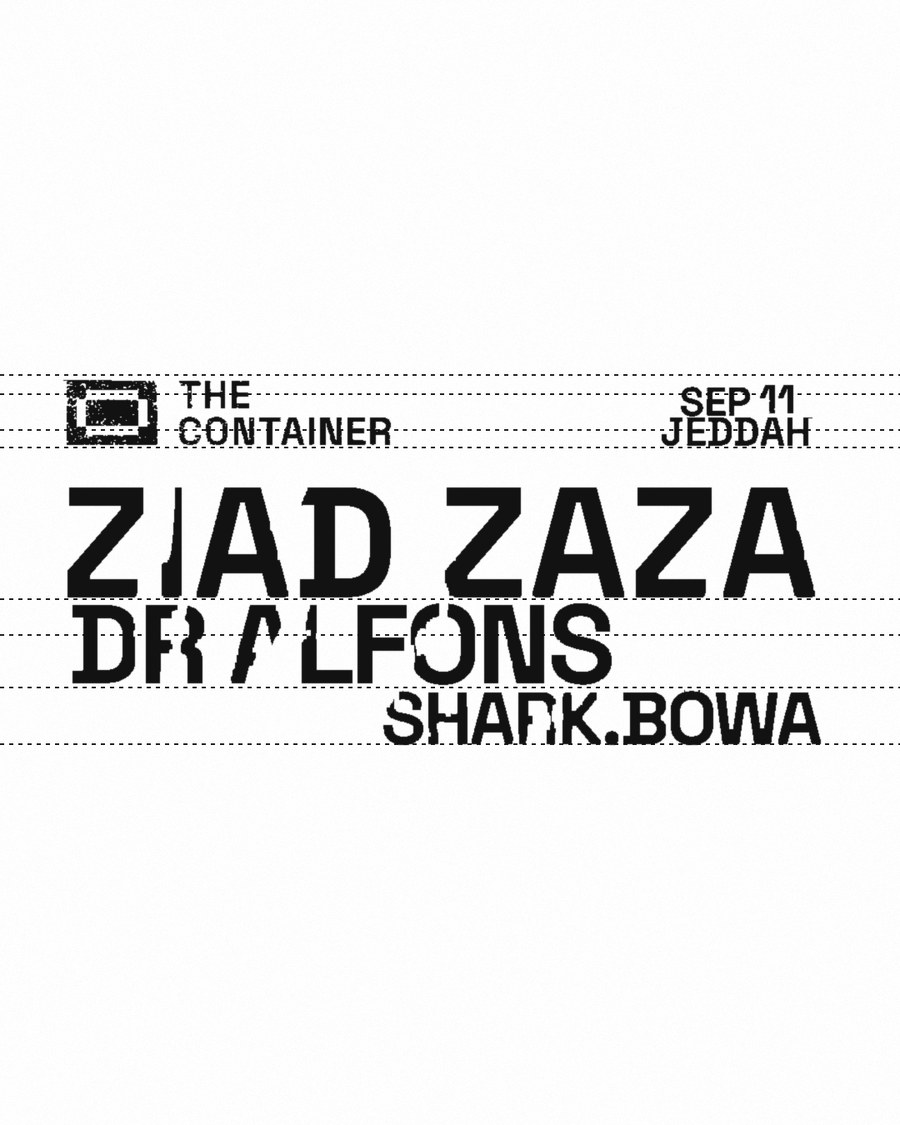
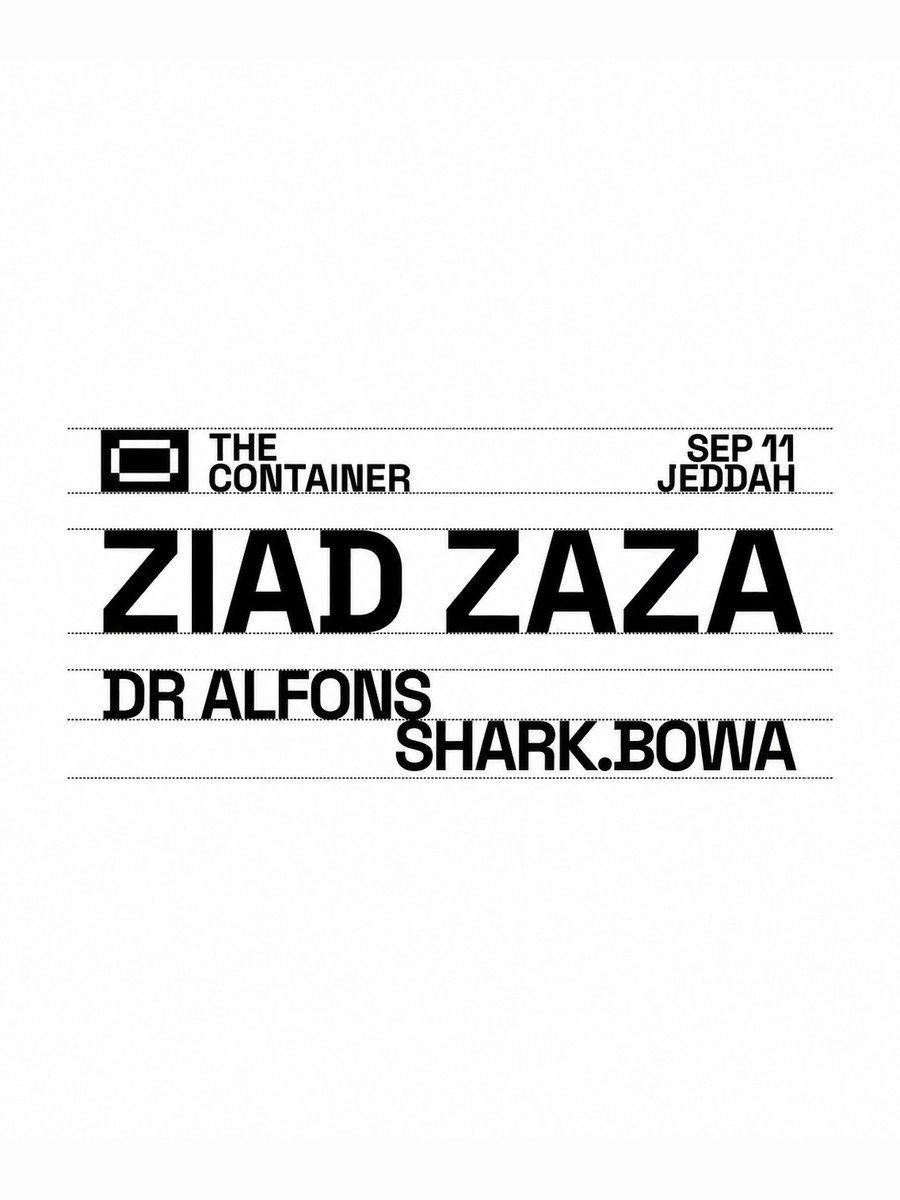
app

Changed region(s): [[0.0622, 0.3111, 0.9333, 0.6844]]

diff --git a/index.html b/index.html
@@ -108,7 +108,7 @@
         <p class="lede day-only">By day, The Container hosts workshops, exhibitions, talks, seminars and creative gatherings. A flexible space for learning, collaboration and new ideas.</p>
         <p class="lede night-only">At night, The Container comes alive with music, fashion shows, stand-up comedy, art exhibitions and live performances, powered by Funktion-One sound and immersive production.</p>
         <div class="hero__cta">
-          <a class="btn btn--solid" href="/events/">Get tickets - Sep 03 &amp; 04</a>
+          <a class="btn btn--solid" href="/events/">Get tickets - Sep 11 &amp; 18</a>
           <a class="btn" href="/about/">The venue</a>
         </div>
       </div>
@@ -174,35 +174,7 @@
       <div class="event-grid">
 <article class="event reveal" data-kind="night" data-ticket-url="">
   <div class="event__art">
-    <img src="/assets/img/events/opening-night-sep-03.jpg" alt="Opening night flyer - Maz, Laolu, Dish Dash and Eyad at The Container, Jeddah, September 03" width="900" height="1187" loading="lazy">
-  </div>
-  <div class="event__body">
-    <p class="event__meta">Thu Sep 03 · Doors 9 PM · Last entry 12:30 AM · 18+</p>
-    <h3>Maz · Laolu · Dish Dash · Eyad</h3>
-    <p class="event__desc">The Container presents Maz, Laolu, Dish Dash and Eyad for a night of captivating Afro-house beats. Experience our opening party on Thursday, September 3, at The Container in North Obhur, Jeddah. Limited tickets available.</p>
-    <div class="event__foot event__foot--split" data-ticket-slot>
-      <a class="btn btn--solid" href="https://jeddah.platinumlist.net/event-tickets/107693/the-container" target="_blank" rel="noopener noreferrer">Platinumlist</a>
-      <a class="btn" href="https://nofomo.com/events/the-container-3-sep" target="_blank" rel="noopener noreferrer">NoFomo</a>
-    </div>
-  </div>
-</article>
-<article class="event reveal" data-delay="1" data-kind="night" data-ticket-url="">
-  <div class="event__art">
-    <img src="/assets/img/events/sosa-sep-04.jpg" alt="Flyer - Sosa, Fleur Shore, Vinyl Mode, Blacky and Future Loop at The Container, Jeddah, September 04" width="900" height="1187" loading="lazy">
-  </div>
-  <div class="event__body">
-    <p class="event__meta">Fri Sep 04 · Doors 9 PM · Last entry 12:30 AM · 18+</p>
-    <h3>Sosa · Fleur Shore · Vinyl Mode · Blacky · Future Loop</h3>
-    <p class="event__desc">The Container presents SOSA, Fleur Shore, Vinyl Mode, Blacky and Future Loop for a night of groovy house beats. Experience our opening weekend on Friday, September 4, at The Container in North Obhur, Jeddah. Limited tickets available.</p>
-    <div class="event__foot event__foot--split" data-ticket-slot>
-      <a class="btn btn--solid" href="https://jeddah.platinumlist.net/event-tickets/107696/the-container-presents-sosa-fleur-shore-vinyl-mode-blacky-future-loop" target="_blank" rel="noopener noreferrer">Platinumlist</a>
-      <a class="btn" href="https://nofomo.com/events/the-container-4-sep" target="_blank" rel="noopener noreferrer">NoFomo</a>
-    </div>
-  </div>
-</article>
-<article class="event reveal" data-delay="2" data-kind="night" data-ticket-url="">
-  <div class="event__art">
-    <img src="/assets/img/events/ziad-zaza-sep-11.jpg" alt="Flyer - Ziad Zaza, Dr Alfons, Shark and Bowa at The Container, Jeddah, September 11" width="900" height="1125" loading="lazy">
+    <img src="/assets/img/events/ziad-zaza-sep-11.jpg" alt="Flyer - Ziad Zaza, Dr Alfons, Shark and Bowa at The Container, Jeddah, September 11" width="900" height="1200" loading="lazy">
   </div>
   <div class="event__body">
     <p class="event__meta">Fri Sep 11 · Doors 9 PM · Last entry 12:30 AM · 18+</p>
@@ -211,6 +183,46 @@
     <div class="event__foot event__foot--split" data-ticket-slot>
       <a class="btn btn--solid" href="https://jeddah.platinumlist.net/event-tickets/107974/the-container" target="_blank" rel="noopener noreferrer">Platinumlist</a>
       <a class="btn" href="https://nofomo.com/events/the-container-11-sep" target="_blank" rel="noopener noreferrer">NoFomo</a>
+    </div>
+  </div>
+</article>
+<article class="event reveal" data-delay="1" data-kind="night" data-ticket-url="">
+  <div class="event__art">
+    <img src="/assets/img/events/apollonia-sep-18.jpg" alt="Flyer - Apollonia, Vinyl Mode B2B Abbas and Varoo at The Container, Jeddah, September 18" width="900" height="1200" loading="lazy">
+  </div>
+  <div class="event__body">
+    <p class="event__meta">Fri Sep 18 · Doors 9 PM · Last entry 12 AM · 18+</p>
+    <h3>Apollonia · Vinyl Mode B2B Abbas · Varoo</h3>
+    <p class="event__desc">Formed by Dan Ghenacia, Dyed Soundorom and Shonky, the Parisian trio have built a global reputation for their unmistakable chemistry behind the decks, seamlessly moving through deep house, minimal and timeless underground grooves. Joining them are Vinyl Mode B2B Abbas &amp; Varoo, setting the tone for a night dedicated to pure underground energy.</p>
+    <div class="event__foot" data-ticket-slot>
+      <a class="btn btn--solid" href="https://nofomo.com/events/the-container-18-sep" target="_blank" rel="noopener noreferrer">NoFomo</a>
+    </div>
+  </div>
+</article>
+<article class="event reveal" data-delay="2" data-kind="night" data-ticket-url="">
+  <div class="event__art">
+    <svg viewBox="0 0 400 300" preserveAspectRatio="xMidYMid slice" aria-hidden="true">
+      <rect width="400" height="300" fill="#0f1016"/>
+      <g stroke="#5b5f66" stroke-width="10" stroke-opacity=".9">
+        <path d="M-40 300L200 -40" /><path d="M40 300L280 -40" opacity=".45"/><path d="M120 300L360 -40" opacity=".2"/>
+      </g>
+      <g fill="#f4f4f6" opacity=".85" transform="translate(292 210) scale(1.1)">
+      <rect x="18" y="0" width="28" height="10"/>
+      <rect x="18" y="30" width="28" height="10"/>
+      <rect x="8" y="10" width="8" height="20"/>
+      <rect x="48" y="10" width="8" height="20"/>
+    </g>
+      <path d="M0 40h400" stroke="#f4f4f6" stroke-opacity=".12"/>
+    </svg>
+    <span class="event__kind">Night</span>
+    <span class="event__date"><b>25</b><span>Sep</span></span>
+  </div>
+  <div class="event__body">
+    <p class="event__meta">Fri · Week 04 · Doors - late</p>
+    <h3>Baron + Khenya</h3>
+    <p class="event__desc">Closing week of the month: Baron and Khenya, with Malkin and Soufis in support.</p>
+    <div class="event__foot" data-ticket-slot>
+      <span class="btn btn--soon"><span class="pulse"></span>Booking soon</span>
     </div>
   </div>
 </article>

diff --git a/events/index.html b/events/index.html
@@ -104,7 +104,7 @@
           <button class="chip" type="button" data-filter="day" aria-pressed="false">☀ Day</button>
           <button class="chip" type="button" data-filter="night" aria-pressed="false">☾ Night</button>
         </div>
-        <p class="form-note">September is live - tickets for Sep 03 &amp; 04 are on Platinumlist and NoFomo.</p>
+        <p class="form-note">Next up: Sep 11 &amp; Sep 18 - tickets are live below.</p>
       </div>
 
       <!-- ====================================================== -->
@@ -123,9 +123,8 @@
     <p class="event__meta">Thu Sep 03 · Doors 9 PM · Last entry 12:30 AM · 18+</p>
     <h3>Maz · Laolu · Dish Dash · Eyad</h3>
     <p class="event__desc">The Container presents Maz, Laolu, Dish Dash and Eyad for a night of captivating Afro-house beats. Experience our opening party on Thursday, September 3, at The Container in North Obhur, Jeddah. Limited tickets available.</p>
-    <div class="event__foot event__foot--split" data-ticket-slot>
-      <a class="btn btn--solid" href="https://jeddah.platinumlist.net/event-tickets/107693/the-container" target="_blank" rel="noopener noreferrer">Platinumlist</a>
-      <a class="btn" href="https://nofomo.com/events/the-container-3-sep" target="_blank" rel="noopener noreferrer">NoFomo</a>
+    <div class="event__foot" data-ticket-slot>
+      <span class="btn btn--soon">Past event</span>
     </div>
   </div>
 </article>
@@ -137,15 +136,14 @@
     <p class="event__meta">Fri Sep 04 · Doors 9 PM · Last entry 12:30 AM · 18+</p>
     <h3>Sosa · Fleur Shore · Vinyl Mode · Blacky · Future Loop</h3>
     <p class="event__desc">The Container presents SOSA, Fleur Shore, Vinyl Mode, Blacky and Future Loop for a night of groovy house beats. Experience our opening weekend on Friday, September 4, at The Container in North Obhur, Jeddah. Limited tickets available.</p>
-    <div class="event__foot event__foot--split" data-ticket-slot>
-      <a class="btn btn--solid" href="https://jeddah.platinumlist.net/event-tickets/107696/the-container-presents-sosa-fleur-shore-vinyl-mode-blacky-future-loop" target="_blank" rel="noopener noreferrer">Platinumlist</a>
-      <a class="btn" href="https://nofomo.com/events/the-container-4-sep" target="_blank" rel="noopener noreferrer">NoFomo</a>
+    <div class="event__foot" data-ticket-slot>
+      <span class="btn btn--soon">Past event</span>
     </div>
   </div>
 </article>
 <article class="event reveal" data-delay="2" data-kind="night" data-ticket-url="">
   <div class="event__art">
-    <img src="/assets/img/events/ziad-zaza-sep-11.jpg" alt="Flyer - Ziad Zaza, Dr Alfons, Shark and Bowa at The Container, Jeddah, September 11" width="900" height="1125" loading="lazy">
+    <img src="/assets/img/events/ziad-zaza-sep-11.jpg" alt="Flyer - Ziad Zaza, Dr Alfons, Shark and Bowa at The Container, Jeddah, September 11" width="900" height="1200" loading="lazy">
   </div>
   <div class="event__body">
     <p class="event__meta">Fri Sep 11 · Doors 9 PM · Last entry 12:30 AM · 18+</p>
@@ -159,27 +157,14 @@
 </article>
 <article class="event reveal" data-kind="night" data-ticket-url="">
   <div class="event__art">
-    <svg viewBox="0 0 400 300" preserveAspectRatio="xMidYMid slice" aria-hidden="true">
-      <rect width="400" height="300" fill="#0e0f14"/>
-      <g fill="#5b5f66"><rect x="20" y="218" width="56" height="26" rx="1" opacity="0.35"/><rect x="96" y="186" width="56" height="26" rx="1" opacity="0.51"/><rect x="172" y="154" width="56" height="26" rx="1" opacity="0.6699999999999999"/><rect x="248" y="122" width="56" height="26" rx="1" opacity="0.83"/><rect x="324" y="90" width="56" height="26" rx="1" opacity="0.99"/></g>
-      <path d="M0 246h400" stroke="#f4f4f6" stroke-opacity=".3" stroke-width="2"/>
-      <g fill="#f4f4f6" opacity=".25" transform="translate(180 30) scale(1.0)">
-      <rect x="18" y="0" width="28" height="10"/>
-      <rect x="18" y="30" width="28" height="10"/>
-      <rect x="8" y="10" width="8" height="20"/>
-      <rect x="48" y="10" width="8" height="20"/>
-    </g>
-      <circle cx="60" cy="60" r="26" fill="none" stroke="#f4f4f6" stroke-opacity=".35" stroke-width="2"/>
-    </svg>
-    <span class="event__kind">Night</span>
-    <span class="event__date"><b>18</b><span>Sep</span></span>
+    <img src="/assets/img/events/apollonia-sep-18.jpg" alt="Flyer - Apollonia, Vinyl Mode B2B Abbas and Varoo at The Container, Jeddah, September 18" width="900" height="1200" loading="lazy">
   </div>
   <div class="event__body">
-    <p class="event__meta">Fri · Week 03 · Doors - late</p>
-    <h3>Appolonia</h3>
-    <p class="event__desc">Appolonia leads week three, alongside Vinyl Mode, Majid and Mishal.</p>
+    <p class="event__meta">Fri Sep 18 · Doors 9 PM · Last entry 12 AM · 18+</p>
+    <h3>Apollonia · Vinyl Mode B2B Abbas · Varoo</h3>
+    <p class="event__desc">Formed by Dan Ghenacia, Dyed Soundorom and Shonky, the Parisian trio have built a global reputation for their unmistakable chemistry behind the decks, seamlessly moving through deep house, minimal and timeless underground grooves. Joining them are Vinyl Mode B2B Abbas &amp; Varoo, setting the tone for a night dedicated to pure underground energy.</p>
     <div class="event__foot" data-ticket-slot>
-      <span class="btn btn--soon"><span class="pulse"></span>Booking soon</span>
+      <a class="btn btn--solid" href="https://nofomo.com/events/the-container-18-sep" target="_blank" rel="noopener noreferrer">NoFomo</a>
     </div>
   </div>
 </article>
